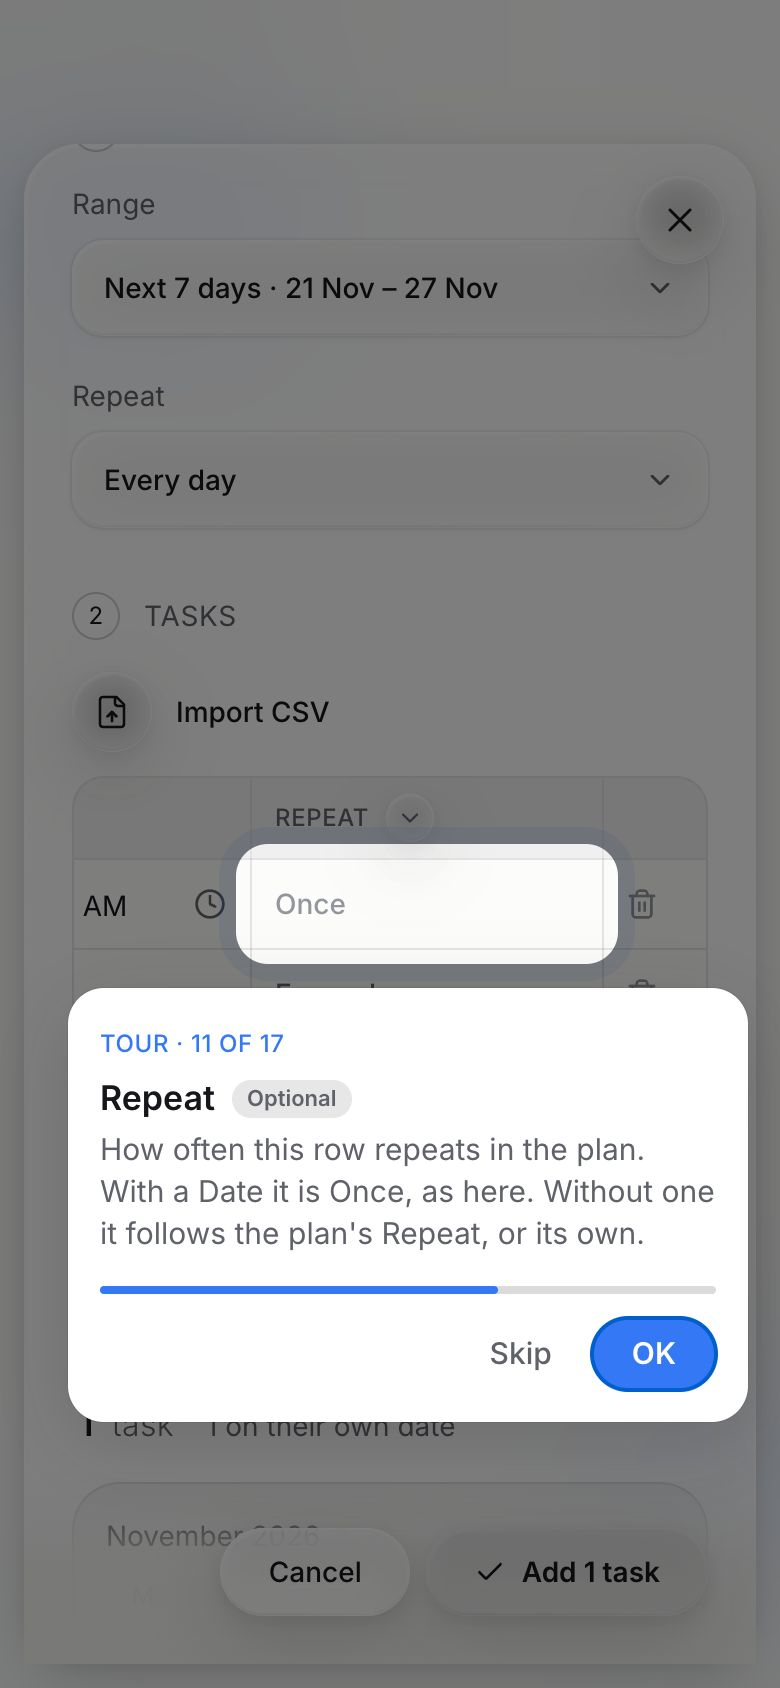
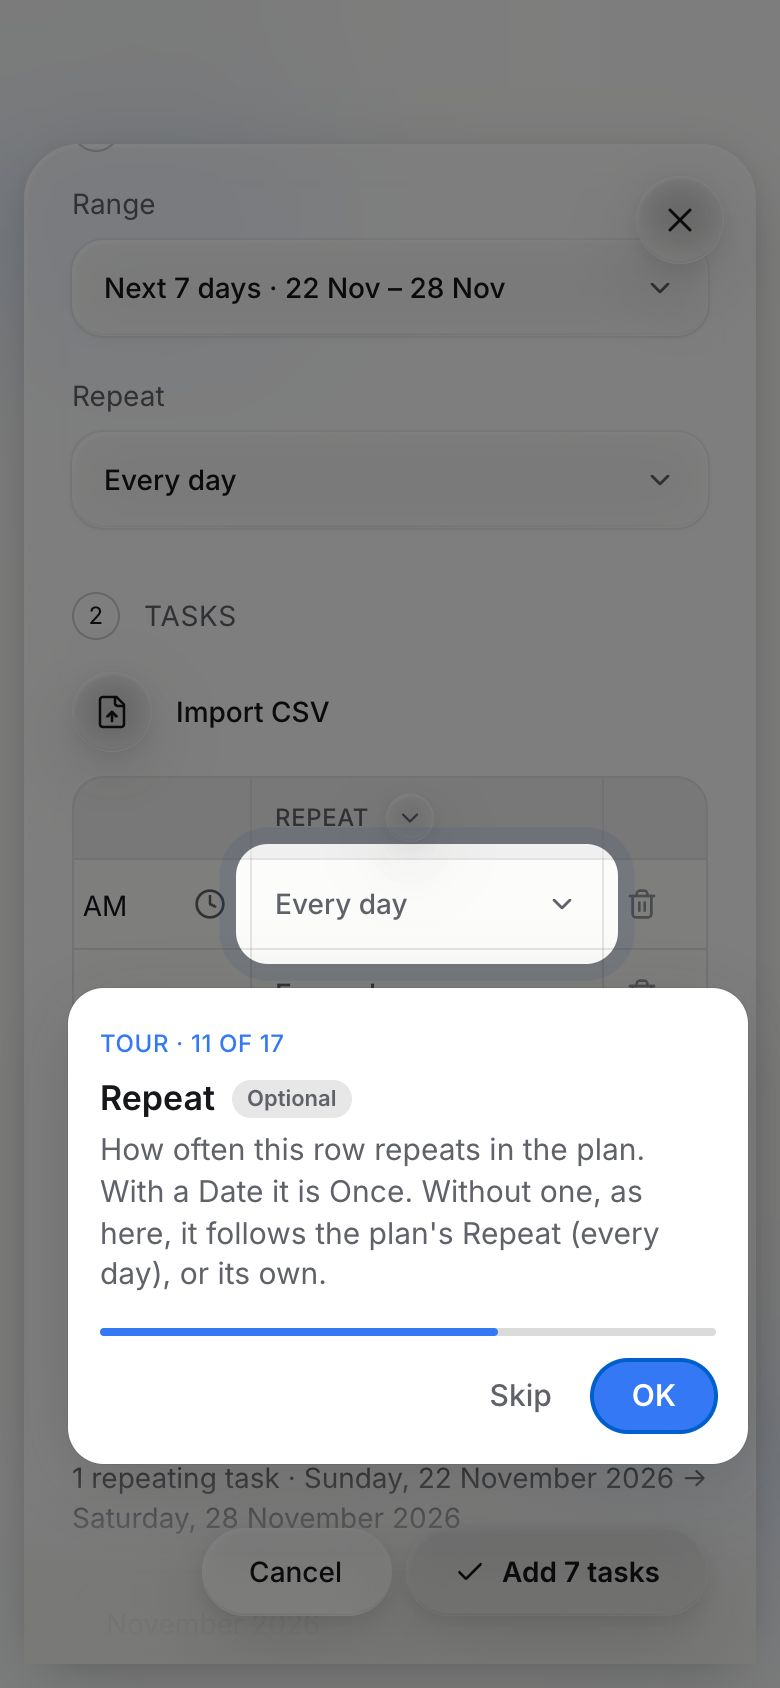
Todo tour upgraded

diff --git a/components/Tour.tsx b/components/Tour.tsx
@@ -1,14 +1,13 @@
 "use client";
 import { useEffect, useRef, useState } from "react";
 import { createPortal } from "react-dom";
-import { today } from "@/lib/days";
 import { PLANNER_DRAFT_KEY } from "@/components/TaskPlanner";
 import { tourState, tourTasks } from "@/lib/tour";
 
 /**
  * The guided tour (More → Take the tour). It plays by itself: a spotlight moves over the real app while a small card
  * says what is happening, and it adds one real task through the task planner, exactly as a person would
- * (+ → type a title → today only → Add). "Skip" stops it at any step. A planner draft the person had is put aside
+ * (+ → mark 1 week → type a title → Add). "Skip" stops it at any step. A planner draft the person had is put aside
  * during the tour and given back afterwards. Every run adds a new task (numbered after the first).
  */
 const TOUR_TITLE = "Try Pacewise To-do";
@@ -88,7 +87,6 @@ export function Tour({ onClose, goTasks }: { onClose: () => void; goTasks: () =>
     putDraft(null); // the planner opens fresh for the tour
     goTasks();
     window.scrollTo({ top: 0, behavior: "smooth" });
-    const now = today();
     const name = TOUR_TITLE;
     const P = '[aria-label="Task planner"]';
 
@@ -102,18 +100,28 @@ export function Tour({ onClose, goTasks }: { onClose: () => void; goTasks: () =>
       add.click();
       plannerOpen.current = true;
 
-      // 2–3. What the planner's parts do (only explained; nothing is changed)
-      const explain: [string, string, string][] = [
-        [`${P} [data-tour="range"]`, "Range", "The days this plan covers: this week, the next 7 days, this month, or your own dates."],
-        [`${P} [data-tour="repeat"]`, "Repeat", "How often the tasks repeat in that range: every day, weekdays, once a week, every few days… Each row can also have its own repeat."],
+      // 2–3. Range and Repeat: the tour marks one week (Next 7 days), every day
+      const explain: [string, string, string, string][] = [
+        [`${P} [data-tour="range"]`, "Range", "The days this plan covers: this week, the next 7 days, this month, or your own dates. Tap OK and the tour marks 1 week: the next 7 days.", "Next 7 days"],
+        [`${P} [data-tour="repeat"]`, "Repeat", "How often the tasks repeat in that range: every day, weekdays, once a week, every few days… Each row can also have its own repeat. Tap OK and the tour sets Every day.", "Every day"],
       ];
-      for (const [i, [target, heading, body]] of explain.entries()) {
+      for (const [i, [target, heading, body, choice]] of explain.entries()) {
         const el = await waitFor(target, alive);
         if (!el) continue; // not on screen: skip this one
         el.scrollIntoView({ block: "center", behavior: "smooth" });
         setCard({ n: 2 + i, ok: true, title: heading, body, target });
         await waitOk();
         if (!alive()) return;
+        // pick the choice in its menu (if the menu does not open, the planner's own default is 7 days, every day)
+        const trigger = el.querySelector<HTMLElement>('button[aria-haspopup="listbox"]');
+        if (trigger) {
+          trigger.click();
+          await waitFor('[role="listbox"] [role="option"]', alive, 2000);
+          await sleep(300);
+          const opt = [...document.querySelectorAll<HTMLElement>('[role="listbox"] [role="option"]')].find((o) => o.textContent?.trim().startsWith(choice));
+          if (opt) opt.click(); else window.dispatchEvent(new KeyboardEvent("keydown", { key: "Escape" }));
+          await sleep(400);
+        }
       }
 
       // 4–11. Every column of the row: what it is, whether it is required, and the tour fills it in.
@@ -157,11 +165,11 @@ export function Tour({ onClose, goTasks }: { onClose: () => void; goTasks: () =>
         await sleep(400);
       }
 
-      // Date (optional): today, so the tour adds exactly one task
+      // Date (optional): left empty, so the task is set on every day of the marked week
       const date = (await cell('[data-cell="0-3"]')) as HTMLInputElement | null;
       if (date) {
-        if (!(await step(7, '[data-cell="0-3"]', "Date", "Optional", "A date adds the task on that day only. Left empty, it repeats on the plan's days (Range and Repeat). Tap OK to set today, so this adds exactly one task."))) return;
-        setValue(date, now);
+        if (!(await step(7, '[data-cell="0-3"]', "Date", "Optional", "A date adds the task on that day only. Left empty, it repeats on the plan's days (Range and Repeat). The tour leaves it empty, so the task is set on every day of the week it marked."))) return;
+        if (date.value) setValue(date, "");
         await sleep(500);
       }
 
@@ -188,7 +196,7 @@ export function Tour({ onClose, goTasks }: { onClose: () => void; goTasks: () =>
 
       // Repeat (optional)
       if (await cell('[data-cell="0-6"]')) {
-        if (!(await step(11, '[data-cell="0-6"]', "Repeat", "Optional", "How often this row repeats in the plan. With a Date it is Once, as here. Without one it follows the plan's Repeat, or its own."))) return;
+        if (!(await step(11, '[data-cell="0-6"]', "Repeat", "Optional", "How often this row repeats in the plan. With a Date it is Once. Without one, as here, it follows the plan's Repeat (every day), or its own."))) return;
       }
 
       // Preview: the calendar at the bottom shows the day(s) the task will be set on
@@ -196,7 +204,7 @@ export function Tour({ onClose, goTasks }: { onClose: () => void; goTasks: () =>
       if (preview) {
         preview.scrollIntoView({ block: "center", behavior: "smooth" });
         await sleep(400);
-        setCard({ n: 12, ok: true, title: "Preview", body: "Everything filled in. This calendar shows the day your task will be set on: the filled-in date is today. With a repeat, every planned day would be filled in here.", target: `${P} [data-tour="preview"]` });
+        setCard({ n: 12, ok: true, title: "Preview", body: "Everything filled in. This calendar shows the days your task will be set on: the whole marked week, from today for 7 days, 9–10 AM each day.", target: `${P} [data-tour="preview"]` });
         await waitOk();
         if (!alive()) return;
       }
@@ -204,7 +212,7 @@ export function Tour({ onClose, goTasks }: { onClose: () => void; goTasks: () =>
       // Add (the practice task is made on this screen only)
       const submit = need(await waitFor('[data-tour="planner-add"]', alive));
       submit.scrollIntoView({ block: "nearest", behavior: "smooth" });
-      setCard({ n: 13, ok: true, title: "Add it", body: "Your own tasks go to your list and your Pacewise calendar. This one is a practice task: it shows in your list for the tour only and is not saved. Tap OK to add it.", target: '[data-tour="planner-add"]' });
+      setCard({ n: 13, ok: true, title: "Add it", body: "Your own tasks go to your list and your Pacewise calendar. This one is a practice task for the week: it shows in your list for the tour only and is not saved. Tap OK to add it.", target: '[data-tour="planner-add"]' });
       await waitOk();
       if (!alive()) return;
       submit.click();
@@ -228,7 +236,7 @@ export function Tour({ onClose, goTasks }: { onClose: () => void; goTasks: () =>
         setCard({ n: 14, ok: true, title: "Your new task", body: "Tick the box when it is done. Missed one? You can still tick it off the next day.", target: sel });
         await waitOk();
         if (!alive()) return;
-        setCard({ n: 15, ok: true, title: "Tick it off", body: "Tap OK and the tour ticks it. Because this is a practice task, it then disappears. Your own tasks go to Done.", target: sel });
+        setCard({ n: 15, ok: true, title: "Tick it off", body: "Tap OK and the tour ticks today's one. Because this is a practice task, it then disappears (the rest of its week goes when the tour ends). Your own tasks go to Done.", target: sel });
         await waitOk();
         if (!alive()) return;
         const box = shown(`${sel} button[aria-label="Mark as done"]`);
